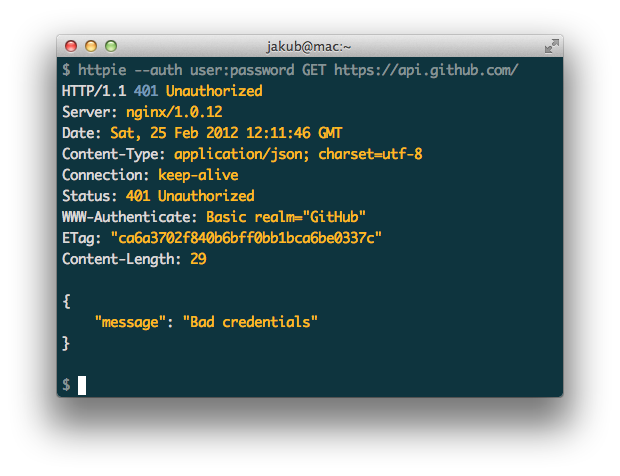
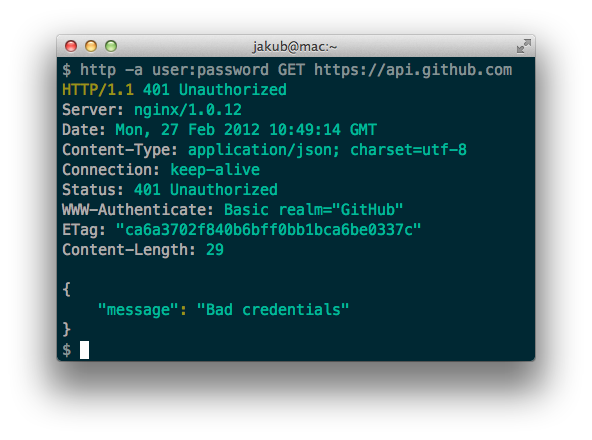
Renamed the CLI tool `http`.

Changed region(s): [[0.0912, 0.0591, 0.9122, 0.8568], [0.152, 0.65, 0.5777, 0.7386]]

diff --git a/httpie/httpie.py b/httpie/httpie.py
@@ -14,7 +14,7 @@ from . import pretty
 
 
 __author__ = 'Jakub Roztocil'
-__version__ = '0.1.2'
+__version__ = '0.1.3'
 __licence__ = 'BSD'
 
 
@@ -76,7 +76,7 @@ group_only.add_argument('--body', '-b', dest='print_headers',
 
 
 # ``requests.request`` keyword arguments.
-parser.add_argument('--auth', help='username:password',
+parser.add_argument('--auth', '-a', help='username:password',
                     type=KeyValueType(SEP_COMMON))
 parser.add_argument('--verify',
                     help='Set to "yes" to check the host\'s SSL certificate.'

diff --git a/setup.py b/setup.py
@@ -8,5 +8,5 @@ setup(name='httpie',version=httpie.__version__,
     author=httpie.__author__,
     license=httpie.__licence__,
     packages=['httpie'],
-    entry_points={'console_scripts': ['httpie = httpie.httpie:main']},
+    entry_points={'console_scripts': ['http = httpie.httpie:main']},
     install_requires=['requests>=0.10.4', 'Pygments>=1.4'])

diff --git a/README.md b/README.md
@@ -1,6 +1,6 @@
 ## HTTPie: cURL for humans
 
-HTTPie is a CLI frontend for [python-requests](http://python-requests.org).
+HTTPie is a CLI frontend for [python-requests](http://python-requests.org) build out of frustration from using `curl`. It provides an `http` command that can be used to easily issue HTTP requests. It is meant to be used by humans to interact with HTTP-based APIs and web servers. The response headers are colorized and the body is syntax-highlighed if its `Content-Type` is known to [Pygments](http://pygments.org/) (unless the output is redirected).
 
 ![httpie](https://github.com/jkbr/httpie/raw/master/httpie.png)
 
@@ -12,11 +12,11 @@ HTTPie is a CLI frontend for [python-requests](http://python-requests.org).
 
 ### Usage
 
-    httpie [flags] METHOD URL [header:value | data-field-name=value]*
+    http [flags] METHOD URL [header:value | data-field-name=value]*
 
 The default request `Content-Type` is `application/json` and data fields are automatically serialized as a JSON `Object`, so this:
 
-    httpie PATCH api.example.com/person/1 X-API-Token:123 name=John
+    http PATCH api.example.com/person/1 X-API-Token:123 name=John email=john@example.org
 
 Will issue the following request:
 
@@ -25,13 +25,53 @@ Will issue the following request:
     X-API-Token: 123
     Content-Type: application/json; charset=utf-8
 
-    {"name": "John"}
-    
+    {"name": "John", "email": "john@example.org"}
+
 You can use the `--form` flag to set `Content-Type` and serialize the data as `application/x-www-form-urlencoded`.
 
 The data to be sent can also be passed via `stdin`:
 
-    httpie PUT api.example.com/person/1 X-API-Token:123 < person.json
+    http PUT api.example.com/person/1 X-API-Token:123 < person.json
 
-Most of the flags mirror the arguments you would use with `requests.request`. See `httpie -h` for more details.
+Most of the flags mirror the arguments you would use with `requests.request`. See `http -h`:
+
+    $ http -h
+    usage: http [-h] [--json | --form] [--traceback] [--ugly] [--headers | --body]
+                [--auth AUTH] [--verify VERIFY] [--proxy PROXY]
+                [--allow-redirects] [--file PATH] [--timeout TIMEOUT]
+                method URL [item [item ...]]
+
+    HTTPie - cURL for humans.
+
+    positional arguments:
+      method                HTTP method to be used for the request (GET, POST,
+                            PUT, DELETE, PATCH, ...).
+      URL                   Protocol defaults to http:// if the URL does not
+                            include it.
+      item                  HTTP header (key:value) or data field (key=value)
+
+    optional arguments:
+      -h, --help            show this help message and exit
+      --json, -j            Serialize data items as a JSON object and set Content-
+                            Type to application/json, if not specified.
+      --form, -f            Serialize data items as form values and set Content-
+                            Type to application/x-www-form-urlencoded, if not
+                            specified.
+      --traceback           Print a full exception traceback should one be raised
+                            by `requests`.
+      --ugly, -u            Do not prettify the response.
+      --headers, -t         Print only the response headers.
+      --body, -b            Print only the response body.
+      --auth AUTH, -a AUTH  username:password
+      --verify VERIFY       Set to "yes" to check the host's SSL certificate. You
+                            can also pass the path to a CA_BUNDLE file for private
+                            certs. You can also set the REQUESTS_CA_BUNDLE
+                            environment variable.
+      --proxy PROXY         String mapping protocol to the URL of the proxy (e.g.
+                            http:foo.bar:3128).
+      --allow-redirects     Set this flag if full redirects are allowed (e.g. re-
+                            POST-ing of data at new ``Location``)
+      --file PATH           File to multipart upload
+      --timeout TIMEOUT     Float describes the timeout of the request (Use
+                            socket.setdefaulttimeout() as fallback).
 
